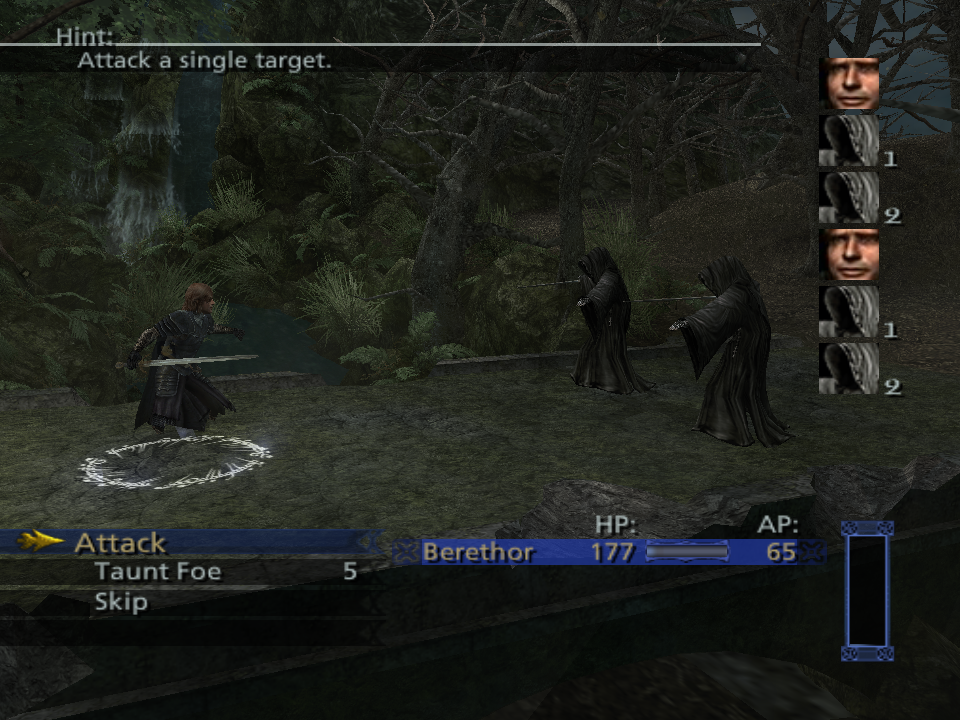
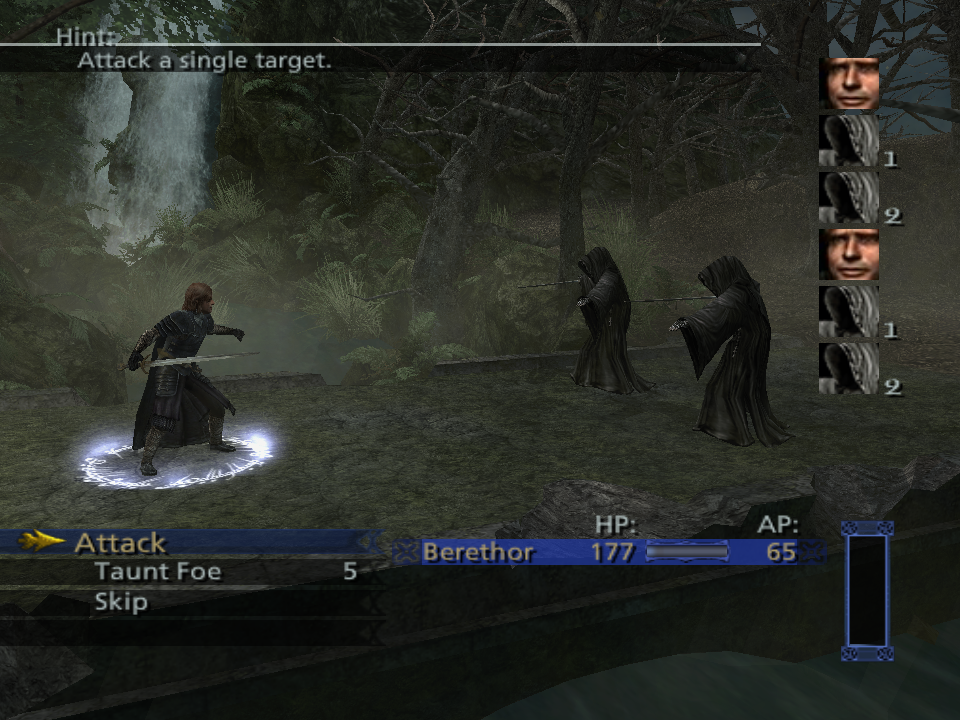
Glows draw without Z writes, as their packet says: the waterfall is bright
The glow's own GS packet sets ZBUF_1/2 with ZMSK 1 (tested, not written)
before its particles and restores the scene's ZBUF in its last block, so
DS+0x120 read after the render had writes on: each particle hid the ones
behind it and the battle's waterfall, the ring's sparkle and the forest's
veils came out dim. The glows now take the ZBUF their packet sets (a PCSX2 GS
dump of the forest confirms ZMSK 1 on the glow draws). The intro close-up is
69/68/60 against the console's 61/58/50.

diff --git a/runtime/tta_3d.cpp b/runtime/tta_3d.cpp
@@ -1551,6 +1551,10 @@ namespace tta
         bool g_inGlow = false, g_glowDump = false;
         int g_glowIndex = -1, g_glowTag = 0;
         std::vector<uint32_t> g_glowBlocks;
+        // The ZBUF_1 the glow's own packet sets for its particles (A+D, before the last block restores the scene's):
+        // 0x131000100 on the console, Z tested but not written (a PCSX2 GS dump of the forest). DS+0x120 still holds
+        // the scene's (writes on) when the render returns. 0 = none seen.
+        uint64_t g_glowZbuf = 0;
         uint32_t g_glowsDrawn = 0, g_glowParticles = 0, g_glowCalls = 0, g_glowNoBlocks = 0, g_glowOtherFbp = 0;
 
         // An effect's texture: by its group record (the 64-bit id first) when it has one, else what was sent to TEX0's
@@ -1707,7 +1711,7 @@ namespace tta
             material.blendD = static_cast<uint8_t>((alpha >> 6) & 3u);
             material.blendFix = static_cast<uint8_t>((alpha >> 32) & 0xffu);
             material.depthTest = ((test >> 17) & 3u) >= 2u;
-            material.depthWrite = ((read64(rdram, ds + 0x120) >> 32) & 1u) == 0;
+            material.depthWrite = (((g_glowZbuf ? g_glowZbuf : read64(rdram, ds + 0x120)) >> 32) & 1u) == 0;
             if (test & 1u)
             {
                 material.alphaTest = true;
@@ -1778,6 +1782,7 @@ namespace tta
                             readFloat(rdram, s + 0xa4), read32(rdram, s + 0xc8), read32(rdram, s + 0x134), read32(rdram, s + 0x138));
             }
             g_glowBlocks.clear();
+            g_glowZbuf = 0;
             g_inGlow = true;
             func_0x21f980(rdram, ctx, rt);
             g_inGlow = false;
@@ -1807,6 +1812,13 @@ namespace tta
                 const uint32_t address = ctx->r[4].uw[0], qwords = ctx->r[5].uw[0];
                 if (qwords == 48 && read32(rdram, address) == 0x6e018000u)
                     g_glowBlocks.push_back(address);
+                else if (!g_glowZbuf && qwords < 64)
+                    for (uint32_t q = 0; q < qwords; ++q)
+                        if (read64(rdram, address + q * 16u + 8u) == 0x4eu) // A+D ZBUF_1
+                        {
+                            g_glowZbuf = read64(rdram, address + q * 16u);
+                            break;
+                        }
                 if (g_glowDump)
                 {
                     std::printf("[tta:glow]   tag %x: %u qwords at %x (a2 %x)\n", ctx->r[7].uw[0], qwords, address, ctx->r[6].uw[0]);

diff --git a/docs/RECOMP_NOTES.md b/docs/RECOMP_NOTES.md
@@ -317,7 +317,7 @@ the game's behaviour); its code is in the history before `8ade037`.
   active character has a black square, a white shape at the screen's left (all three below). The host's per-second line now prints the game's frame
   (0x3b5720) beside its own: TTA_GLOW_DUMP and the other probes key on the game's (host 6800 = game 6755 in the
   intro with build/pad_intro.txt).
-- **The battle menu: ring, hint, water** (2026-11-11). (1) The selection ring under the active character (Cobj 17,
+- **The battle menu: ring, hint, water, waterfall** (2026-11-11). (1) The selection ring under the active character (Cobj 17,
   a 4-vertex static batch, PRIM ABE, an opaque texture: black around white runes) carries no ALPHA_1 of its own; it
   blends with the one in force, DS+0x100 = 0x68 (Cs x FIX + Cd, FIX pulsing 0x1d..0x22): its black adds nothing.
   Static batches with ABE and no ALPHA of their own now take DS+0x100 (TTA_NO_DS_ALPHA=1 for the old alpha blend).
@@ -336,7 +336,14 @@ the game's behaviour); its code is in the history before `8ade037`.
   output (0x2236a0 writes a VIF stream: V4-32 positions, V2-16 ST, V4-8 colours), matched to the native vertices
   by position: the second layer's alpha is 0 there (invisible without ripples) and the first layer's colours are
   about half the native estimate (TTA_MIST_OWN_COLOURS=1 for the estimate, TTA_MIST_PACKET=<frame> dumps the
-  stream). Open: the waterfall at the left is dim next to the console's bright fall.
+  stream). (4) The waterfall is glow particles (types 9/20; the splash texture 0x33bb7793, spray 0x1c33bb7793,
+  mist 0xabb46ddb, ALPHA 0x44): dim natively because each particle wrote Z and hid the ones behind it. The glow's own
+  packet sets ZBUF_1/2 = 0x131000100 (ZMSK 1: tested, not written) and TEST 0x5000a, and its last block restores the
+  scene's 0x31000100, which is what DS+0x120 holds when the render returns; a PCSX2 GS dump of the forest shows the
+  glow draws (PRIM 0x254, TEX0 0x3623) with ZMSK 1. Natively the glows now take the ZBUF their packet sets (the first
+  ZBUF_1 A+D among the glow's DMA blocks): the fall is bright and streaked as on the console, the selection ring gets
+  its blue-white sparkle, and the forest's veils add up: the intro close-up (host 3751) is 69 / 68 / 60 against the
+  console's 61 / 58 / 50 (63 / 62 / 54 before), the haze closer, a little bright.
 - **The screen filters' bloom, at the console's strength** (2026-11-11). With the mist fixed, the intro close-up was
   darker and flatter than the console's (mean 47 / 46 / 40 vs 61 / 58 / 50; the earlier "match" came from the grey
   canvas veils). The console's chain in this scene (PCSX2 GS dump): clear the 256 x 256 target FBP 0x1c0; the frame

diff --git a/README.md b/README.md
@@ -62,8 +62,9 @@ what remains open.
 
 **2026-11-11, late night.** The battle menu as on the console: the selection ring glows (it blends with the
 game's additive mode in force, not over a black square), the white sheet at the left is gone (a water layer had
-picked up a UI texture from the shared VRAM slot), and the hint reads "Attack a single target." once the cursor
-moves, which is when the game sends it.
+picked up a UI texture from the shared VRAM slot), the waterfall falls bright again (its particles had been hiding
+each other: the game draws them without writing depth), and the hint reads "Attack a single target." once the
+cursor moves, which is when the game sends it.
 
 <p align="center">
   <img src="docs/screenshots/2026-11-11-bozo-battle-menu.png" width="400" alt="Berethor's battle menu on BozoEngine with the glowing selection ring and the attack hint">
